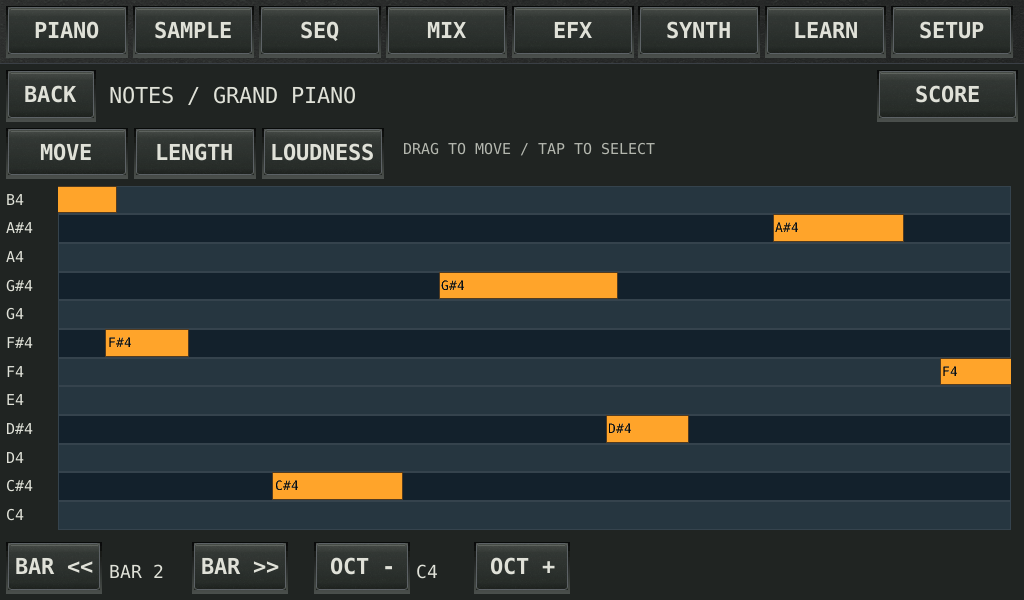
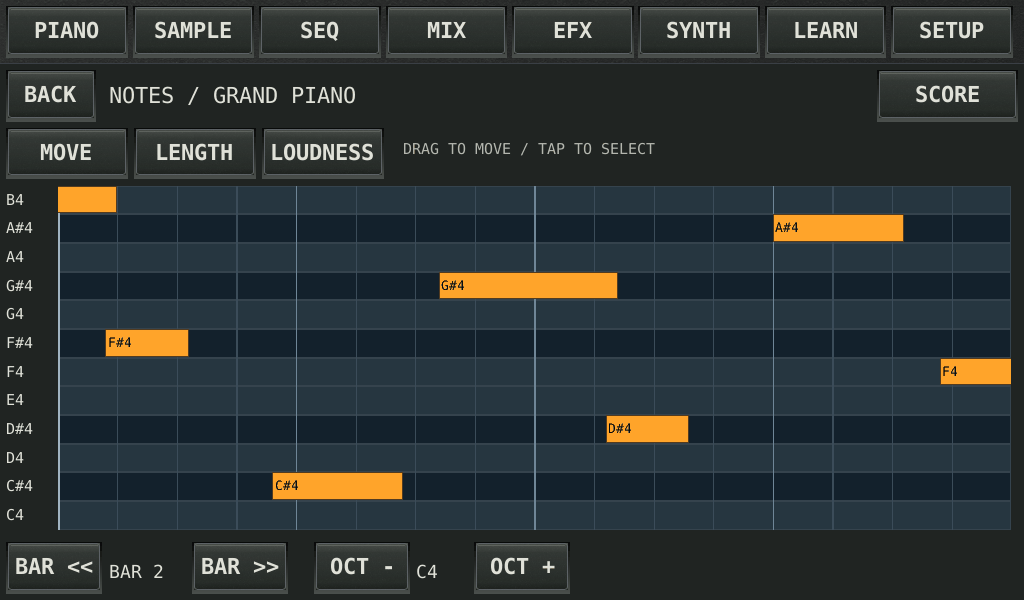
PianoBox: refresh all screenshots to the current build, note the bar magnet
Re-rendered from the 1024x600 harness after the FX chain, note grid and selected-layer
changes; quantised to 256-colour PNGs as before.

diff --git a/projects/pianobox.html b/projects/pianobox.html
@@ -204,7 +204,7 @@
           <img src="../images/pianobox/clip-menu.png" alt="Sequencer EDIT mode with the hold menu open under the finger: copy, paste here, split here, delete, re-record" class="w-full cursor-pointer" onclick="openModal(this.src, 'SEQ · EDIT')">
           <figcaption class="p-4 border-hairline-t">
             <div class="font-mono text-xs text-accent-orange mb-1">SEQ · EDIT</div>
-            <p class="text-xs sm:text-sm text-mono-300 leading-relaxed">Drag a bar to move it. Hold it and a small menu opens right under your finger: copy, paste here, split here, delete, re-record. Hold an empty spot for PASTE HERE or a NEW BAR to record into.</p>
+            <p class="text-xs sm:text-sm text-mono-300 leading-relaxed">Drag a bar to move it. Hold it and a small menu opens right under your finger: copy, paste here, split here, delete, re-record. Hold an empty spot for PASTE HERE or a NEW BAR to record into. Cuts, moves and pastes close to a bar line land right on it.</p>
           </figcaption>
         </figure>
 
